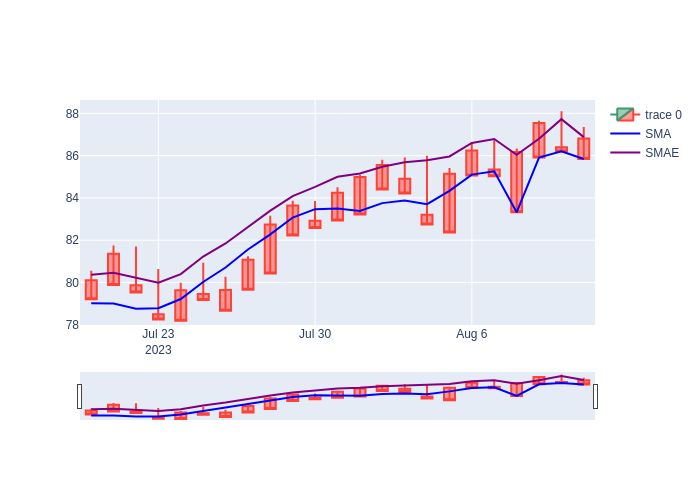
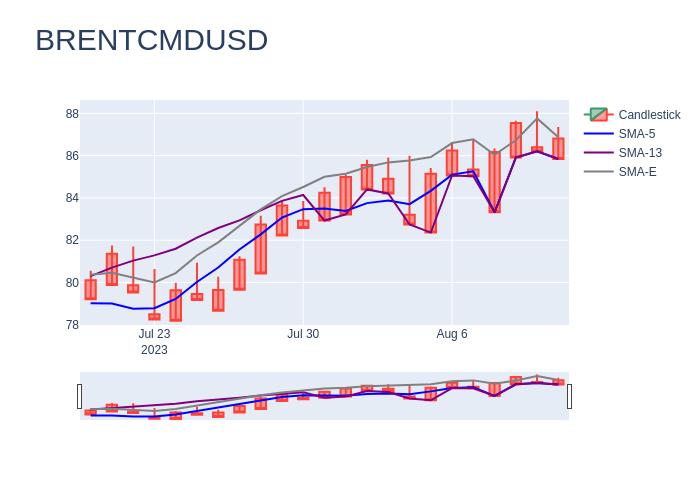
feat: add SMA line for 5 and 13 periods refactor: repeated code turned to functions

diff --git a/Chart.py b/Chart.py
@@ -3,6 +3,8 @@ import pandas as pd
 from ManageFile import simulation
 import os
 
+# function to add column with the average of the generated random numbers
+
 
 def AddEdiCol(df):
     col = []
@@ -17,45 +19,63 @@ def AddEdiCol(df):
 
     return df
 
+# Function to make SMA line to a figure
 
-def CsvToChart(path: str, sma: int):
+
+def MakeTrace(df, refCol: str, color: str):
+    return go.Scatter(x=df['Date'], y=df[refCol],
+                      mode='lines', name=refCol, line_color=color)
+
+# Function to calculate SMA to a DataFrame column
+
+
+def CalcSMA(df, refCol: str, saveCol: str, sma: int):
+    df[saveCol] = df[refCol].rolling(sma).mean()
+    df[saveCol].fillna(df[refCol], inplace=True)
+
+    return df
+
+# Function to create chart with data
+
+
+def CsvToChart(path: str):
     column_names = ['Date', 'Open', 'High', 'Low', 'Close', 'Number']
 
     try:
         df = pd.read_csv(path, names=column_names)
-    except ValueError as er:
-        print(er)
+    except Exception as ex:
+        print(ex)
         return
 
+    _, img_name = os.path.split(path)
+    img_name = img_name.split('.')[0]
+    img_path = 'img/{}.png' .format(img_name)
     df = AddEdiCol(df)
-
-    df['SMA'] = df['Close'].rolling(sma).mean()
-
-    df['SMAE'] = df['ValEd'].rolling(sma).mean()
-
-    df['SMA'].fillna(df['Close'], inplace=True)
-
-    df['SMAE'].fillna(df['ValEd'], inplace=True)
+    df = CalcSMA(df, 'Close', 'SMA-5', 5)
+    df = CalcSMA(df, 'Close', 'SMA-13', 13)
+    df = CalcSMA(df, 'ValEd', 'SMA-E', 5)
 
     fig = go.Figure(data=[go.Candlestick(x=df['Date'],
                                          open=df['Open'],
                                          high=df['High'],
                                          low=df['Low'],
-                                         close=df['Close'])])
+                                         close=df['Close'],
+                                         name="Candlestick")])
 
-    sma_trace = go.Scatter(x=df['Date'], y=df['SMA'],
-                           mode='lines', name='SMA', line_color=' blue')
-
-    sma_trace_2 = go.Scatter(x=df['Date'], y=df['SMAE'],
-                             mode='lines', name='SMAE', line_color='purple')
+    sma_trace = MakeTrace(df, 'SMA-5', 'blue')
+    sma_trace_2 = MakeTrace(df, 'SMA-13', 'purple')
+    sma_trace_3 = MakeTrace(df, 'SMA-E', 'gray')
 
     fig.add_trace(sma_trace)
     fig.add_trace(sma_trace_2)
+    fig.add_trace(sma_trace_3)
+    fig.update_layout(
+        title=dict(text=img_name, font=dict(size=30))
+    )
 
-    img_path = 'img/{}.png' .format(os.path.splitext(path)[0])
     fig.write_image(img_path)
 
 
-path = input()
-sma = int(input())
-CsvToChart(path, sma)
+def test():
+    path = input("Path: ")
+    CsvToChart(path)
